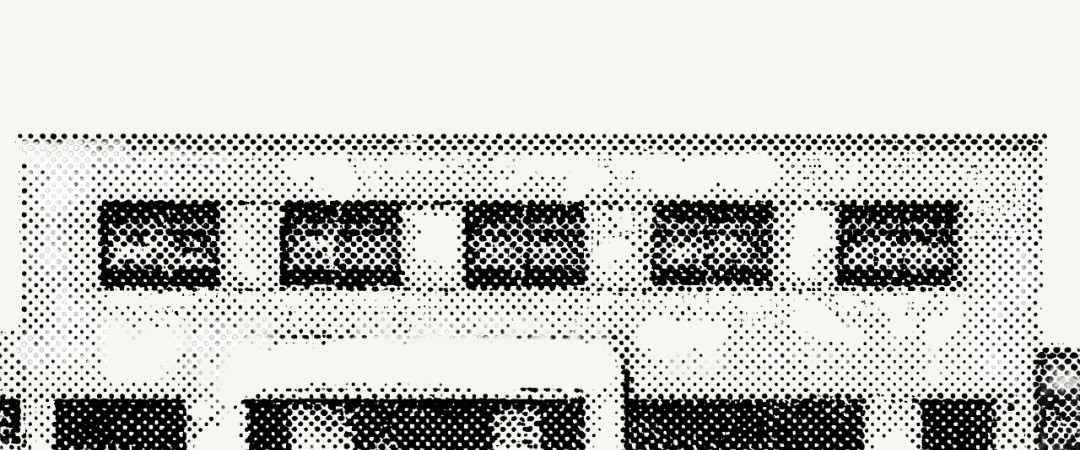
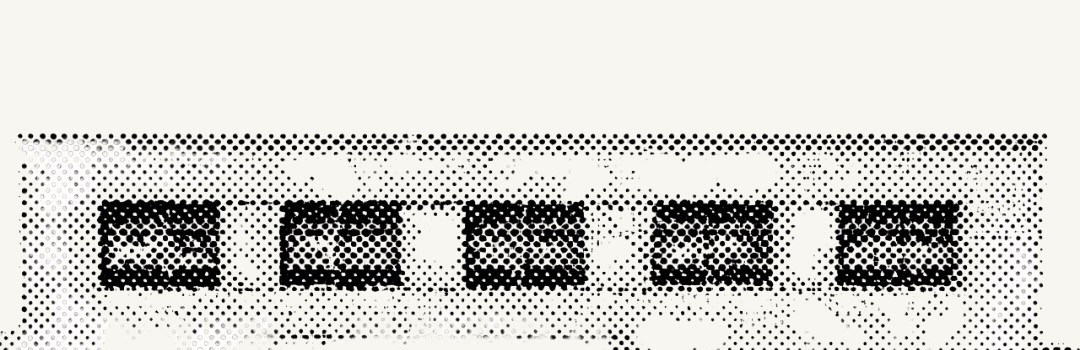
Use cropped header image to prevent text bleed-through

diff --git a/waiver.html b/waiver.html
@@ -29,7 +29,7 @@
     padding: 24px 16px 48px;
     background: 
       linear-gradient(to bottom, rgba(245,242,235,0) 0%, rgba(245,242,235,1) 100%),
-      url('bg-flyer.jpg');
+      url('bg-header.jpg');
     background-size: 100% auto;
     background-position: top center;
     background-repeat: no-repeat;
